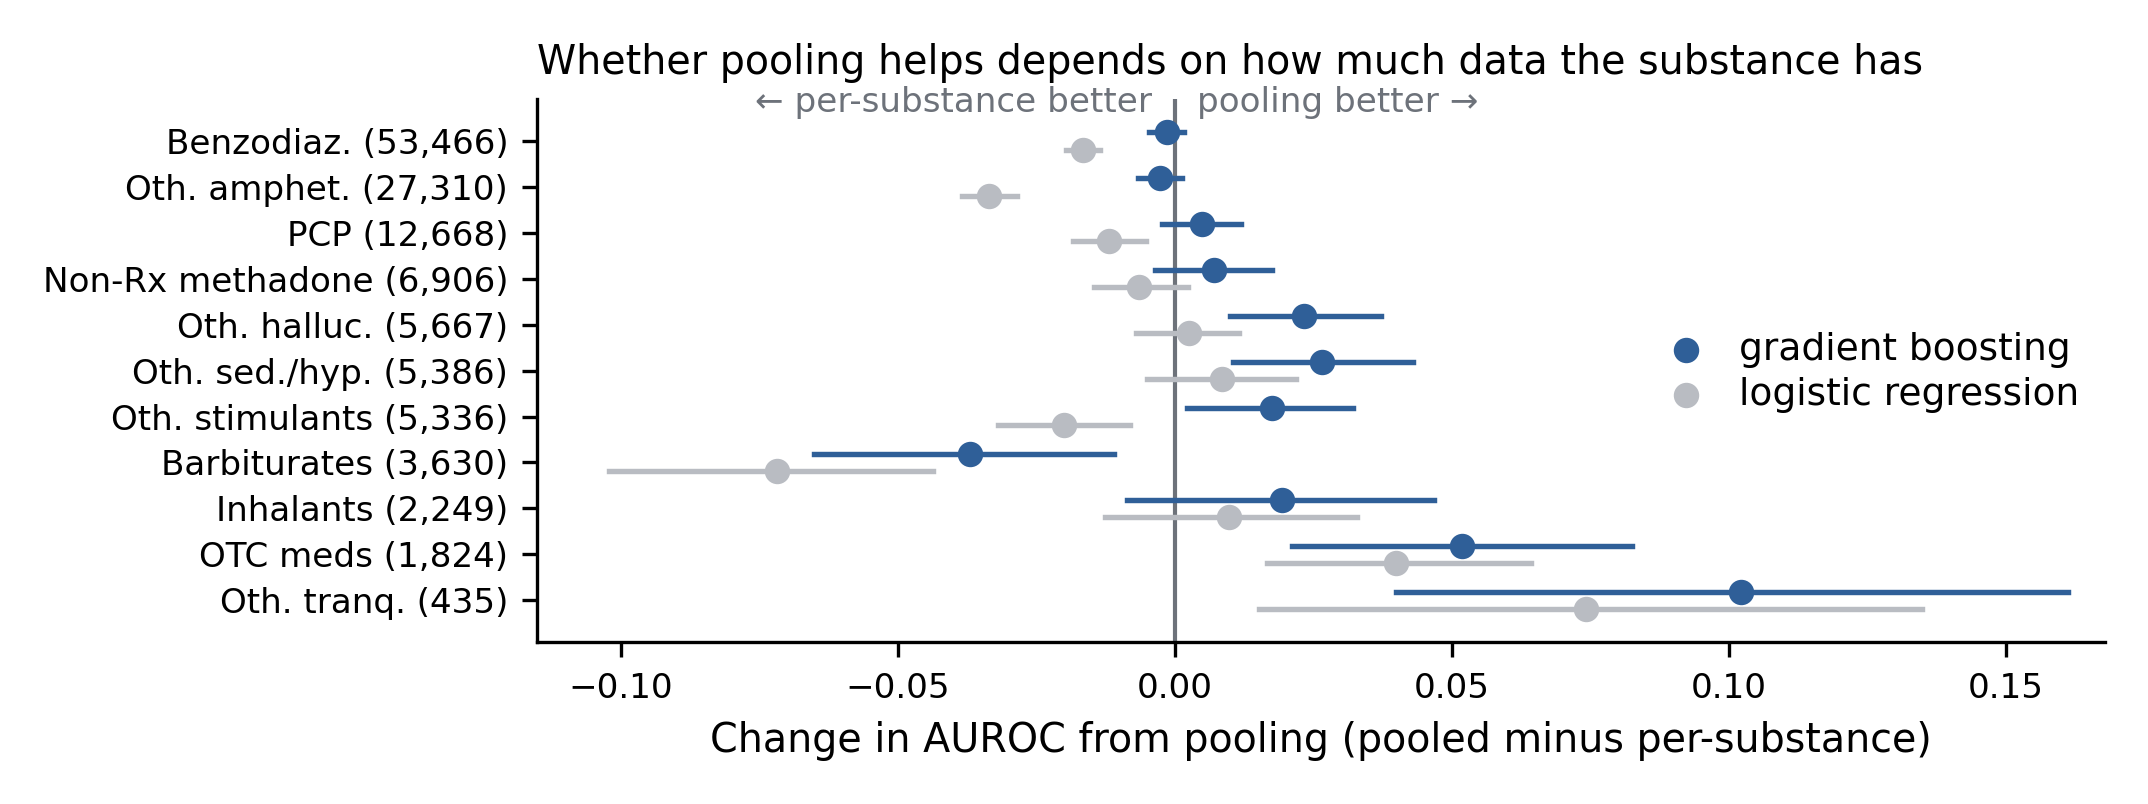
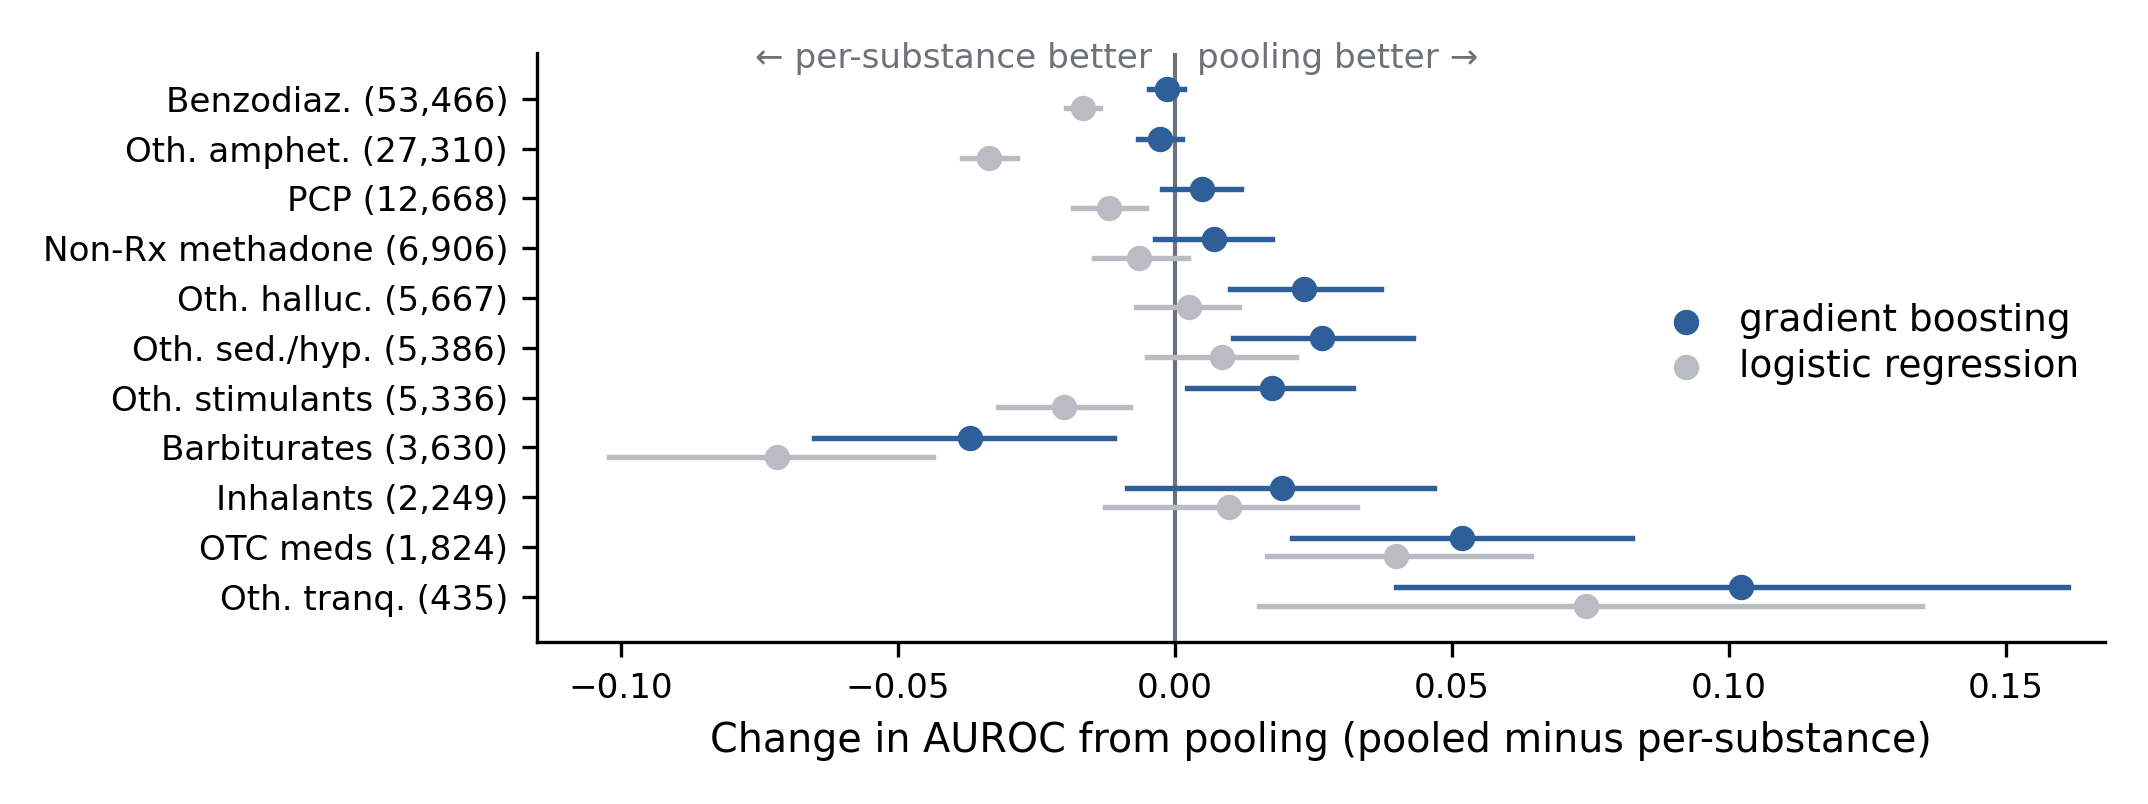
fig1 and fig2 updates

diff --git a/src/12_single_vs_pooled_figures.py b/src/12_single_vs_pooled_figures.py
@@ -46,8 +46,6 @@ ax.set_xlabel("AUROC"); ax.margins(y=0.02)
 ax.axhline(y[5] - 0.5, color="#9aa0a8", lw=0.8, ls=(0, (4, 3)), zorder=0)
 ax.text(0.868, y[5] - 0.32, "six highest-volume substances above", fontsize=8.2,
         color=META, va="bottom", ha="right")
-ax.set_title("Pooling improves average AUROC with larger gains on low volume",
-             loc="left")
 ax.legend(loc="upper left", bbox_to_anchor=(0.005, 0.885), frameon=False,
           handletextpad=0.4, borderpad=0.2, labelspacing=0.25)
 ax.set_xlim(0.700, 0.872)
@@ -67,7 +65,6 @@ ax.axvline(0, color=META, lw=1.0, zorder=1)
 ax.set_yticks(y)
 ax.set_yticklabels([f"{l} ({n:,})" for l, n in zip(S.lab, S.train_n)])
 ax.set_xlabel("Change in AUROC from pooling (pooled minus per-substance)")
-ax.set_title("Whether pooling helps depends on how much data the substance has", loc="left")
 ax.legend(loc="upper right", bbox_to_anchor=(1.0, 0.62), frameon=False,
           handletextpad=0.4, borderpad=0.2, labelspacing=0.25)
 ax.text(0.004, y[0] + 0.62, "pooling better \u2192", fontsize=8.2, color=META, ha="left")
